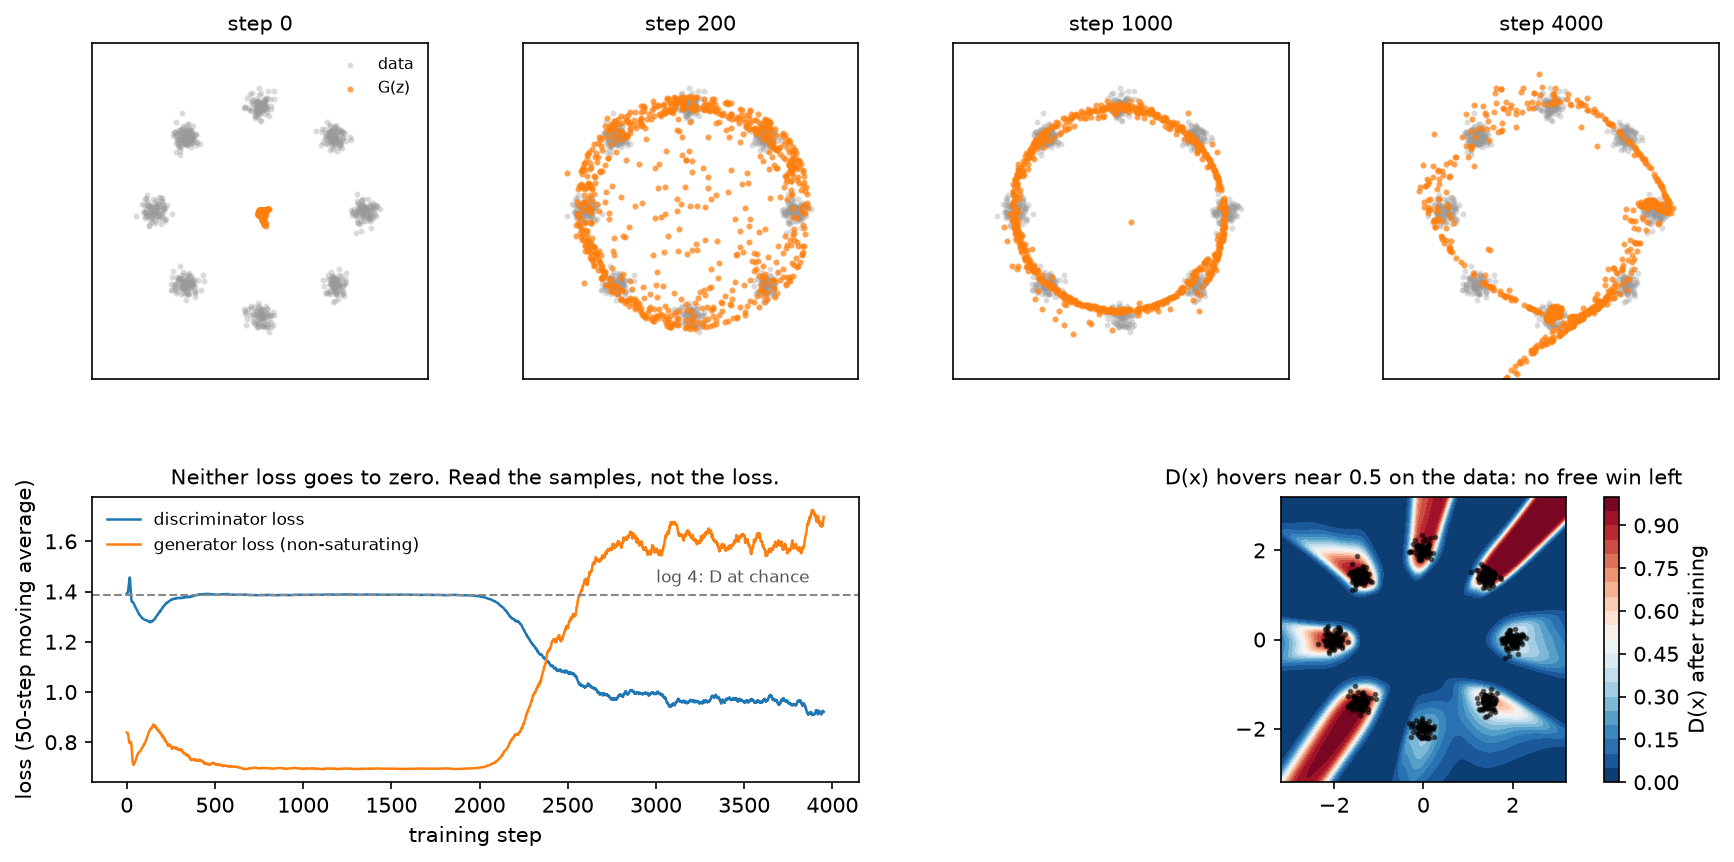
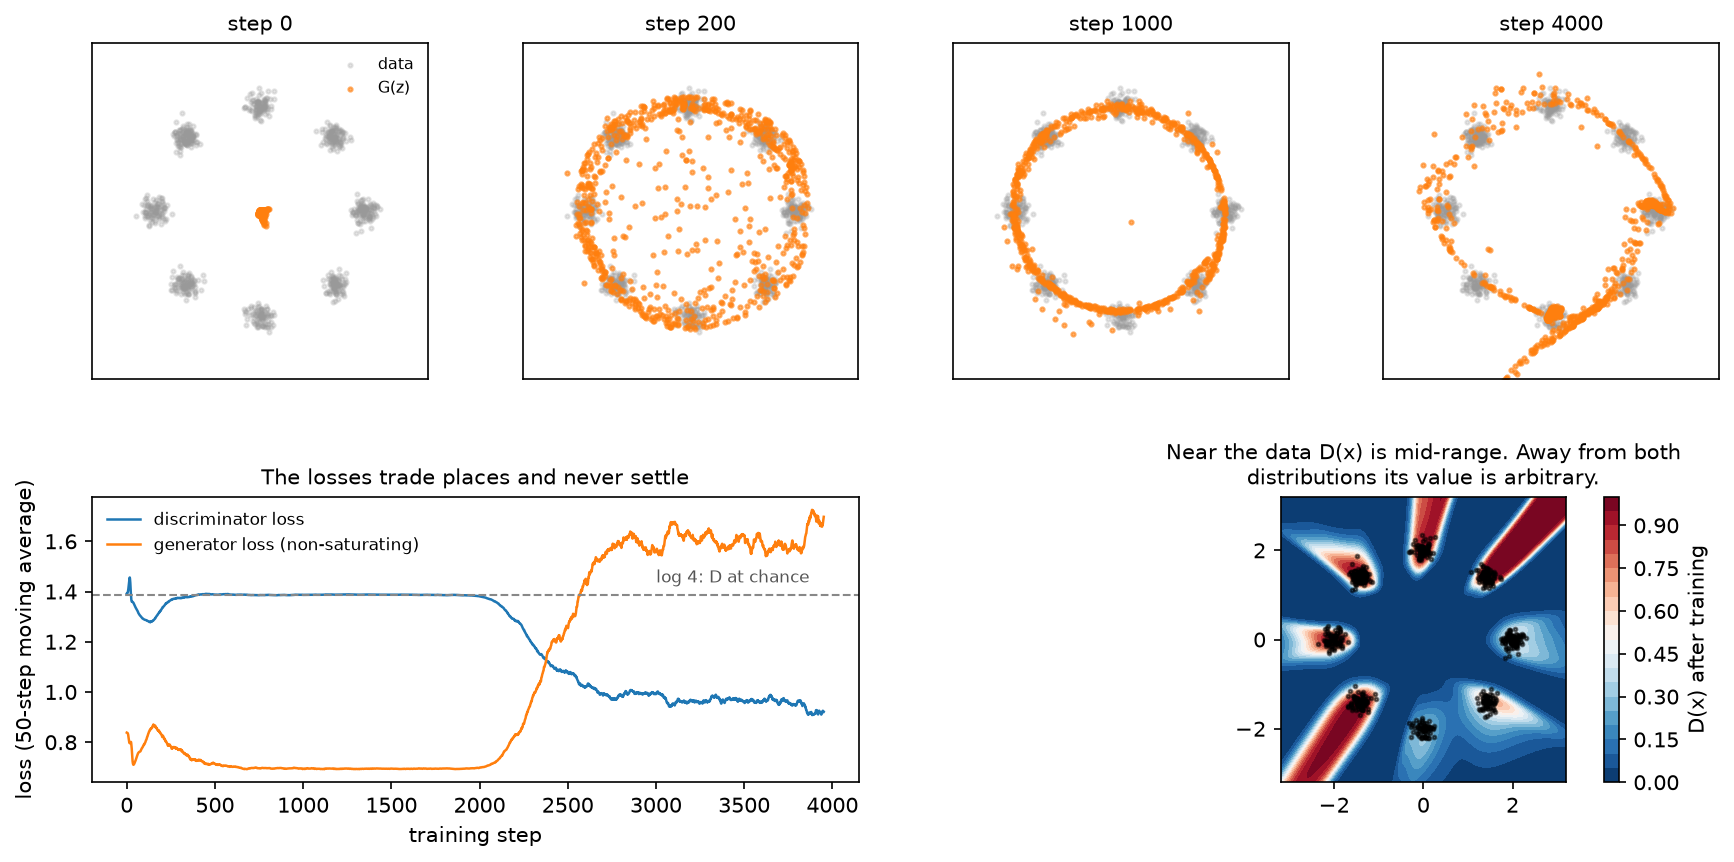
WIP: in-progress Part XI, Part XVI and citation work
Claude-Session: https://claude.ai/code/session_015H27xcFqfnuEV6DfXzrQek

Changed region(s): [[0.654, 0.5128, 0.9654, 0.5731], [0.0934, 0.5429, 0.436, 0.5731]]

diff --git a/figures/part09_gan_toy.py b/figures/part09_gan_toy.py
@@ -60,7 +60,7 @@ def main() -> None:
     ax.axhline(np.log(4), color="#888888", linestyle="--", linewidth=1.0)
     ax.text(len(d_hist) * 0.75, np.log(4) + 0.05, "log 4: D at chance", fontsize=8, color="#555555")
     ax.set_xlabel("training step"); ax.set_ylabel("loss (50-step moving average)")
-    ax.set_title("Neither loss goes to zero. Read the samples, not the loss.", fontsize=10)
+    ax.set_title("The losses trade places and never settle", fontsize=10)
     ax.legend(fontsize=8, frameon=False)
 
     ax = fig.add_subplot(gs[1, 2:])
@@ -72,7 +72,7 @@ def main() -> None:
     im = ax.contourf(gx, gy, d_prob, levels=20, cmap="RdBu_r", vmin=0, vmax=1)
     ax.scatter(x[:600, 0], x[:600, 1], s=3, alpha=0.5, color="black")
     fig.colorbar(im, ax=ax, label="D(x) after training")
-    ax.set_title("D(x) hovers near 0.5 on the data: no free win left", fontsize=10)
+    ax.set_title("Near the data D(x) is mid-range. Away from both\ndistributions its value is arbitrary.", fontsize=10)
     ax.set_aspect("equal")
 
     OUT.parent.mkdir(parents=True, exist_ok=True)

diff --git a/citations-todo/part14-15-systems-safety.md b/citations-todo/part14-15-systems-safety.md
@@ -1,0 +1,46 @@
+# Unverified citations: Parts XIV (systems) and XV (interpretability and safety)
+
+Both parts were already in good shape when the 2026-09-17 citations pass reached
+them. Every non-arXiv source the brief named was already linked in the chapters:
+the OPT-175B chronicles in `facebookresearch/metaseq`, the Transformer Circuits
+posts (A Mathematical Framework, Toy Models of Superposition, Towards
+Monosemanticity, Scaling Monosemanticity, In-context Learning and Induction Heads),
+nostalgebraist's logit-lens post on LessWrong, Simon Willison's prompt-injection
+series and lethal-trifecta post, Google SAIF, Meta's Purple Llama, NVIDIA's
+TensorRT-LLM documentation, the vLLM and Orca posts, Daly's checkpoint-interval
+paper, and ISO 26262 and ISO 21448.
+
+What that pass changed:
+
+* Replaced the H100 and A100 datasheet URLs in all four Part XIV chapters with the
+  two URLs confirmed in search results
+  (`resources.nvidia.com/en-us-gpu-resources/h100-datasheet-24306` and
+  `.../a100-80gb-datasheet-update-a4-nvidia-1485612-r12-web.pdf`). The URLs that
+  were there before did not appear in any search result.
+* Added the Purple Llama repository and Llama Guard model cards to the Llama Guard
+  reference in `02-safety-failure-modes.md`, which previously carried only the arXiv
+  link in the References section.
+* Gave the A100 bandwidth to datasheet precision in the roofline TL;DR
+  (2.04 TB/s, 2,039 GB/s on the datasheet), keeping 2.0 as the figure the worked
+  arithmetic uses.
+
+## Hardware numbers checked against the vendor datasheets
+
+| Claim in the book | Datasheet | Verdict |
+|---|---|---|
+| H100 SXM 989 TFLOP/s dense BF16 | 1,979 TFLOPS BF16 tensor core with 2:4 sparsity, so 989.5 dense | correct |
+| H100 SXM 3.35 TB/s HBM3 | 3.35 TB/s | correct |
+| H100 ridge 295 FLOP/byte | 989 / 3.35 = 295.2 | correct |
+| A100 80 GB 312 TFLOP/s BF16 | 312 TFLOPS dense (624 with sparsity) | correct |
+| A100 80 GB about 2.0 TB/s | 2,039 GB/s (SXM) | correct to the stated rounding; the exact ratio is 153, and the book's 156 comes from taking bandwidth as 2.0 |
+| NVLink about 450 GB/s per direction | NVLink 900 GB/s aggregate | correct |
+| PCIe 5.0 x16 about 64 GB/s per direction | PCIe Gen5 128 GB/s aggregate | correct |
+| InfiniBand NDR 50 GB/s per port | 400 Gb/s per port | correct |
+
+Nothing in the roofline worked examples had to be recomputed.
+
+## Remaining
+
+- [ ] docs/part14-systems/01-distributed-training.md | Bandwidth optimal all-reduce algorithms for clusters of workstations | Patarasuk & Yuan, JPDC 2009 | cited inside a parenthetical; publisher page not checked
+- [ ] docs/part15-interpretability-safety/01-interpretability.md | Several classic attribution papers (Simonyan et al. 2013, Sundararajan et al. ICML 2017, Selvaraju et al. Grad-CAM, Zhou et al. CVPR 2016, Hewitt & Liang EMNLP 2019, Meng et al. NeurIPS 2022) | all carry arXiv links already; conference-proceedings URLs (ACL Anthology, CVF) were not added
+- [ ] docs/part15-interpretability-safety/02-safety-failure-modes.md | The attack and privacy papers (BadNets, Spectral Signatures, Eykholt et al., Yeom et al., Shokri et al., Carlini et al., Lee et al., Tramer et al., Greshake et al., Zou et al.) | all carry arXiv links already; USENIX and IEEE S&P proceedings URLs were not added

diff --git a/docs/part09-generative/02-gans.md b/docs/part09-generative/02-gans.md
@@ -40,17 +40,20 @@ loss, the generator's loss, what $D(x)$ looks like across the plane, and where t
 ![GAN training on a 2-D mixture](../assets/figures/part09_gan_toy.png){ width="900" }
 
 The top row is the generator's samples at four points in training on eight Gaussians arranged on a
-circle. At step 0 they are a blob near the origin. By step 200 they have spread toward the ring.
-By step 4000 they cover the modes.
+circle. At step 0 they are a blob near the origin. By step 200 they have spread toward the ring, by
+step 1000 they sit on it, and by step 4000 they have concentrated on some modes and grown a stray
+filament through the middle. That non-monotonicity is the behaviour to expect: this run does not
+converge to a fixed point and settle, it keeps moving.
 
-The bottom-left panel is the thing to internalise. The discriminator loss does not go to zero, and
-it does not converge to a nice curve. It hovers, because every time $D$ gets better $G$ adapts, and
-vice versa. A discriminator loss falling to zero means $G$ has stopped fooling it, which is bad
-news, not progress. The dashed line at $\log 4$ is what the discriminator's loss would be if the
-two distributions matched exactly and $D$ could do no better than guess.
+The bottom-left panel is what that looks like in the losses. For 2000 steps the discriminator sits
+at $\log 4$, the value it would have if the two distributions matched and it could do no better
+than guess. Then it finds a signal, its loss drops, and the generator's loss climbs in response.
+Neither curve tells you whether the samples are good, which is why you look at samples.
 
-The bottom-right panel shows $D(x)$ over the plane at the end of training. Near the data it sits
-around $0.5$: the discriminator has no free win left there.
+The bottom-right panel shows $D(x)$ over the plane at the end of training. Where the data sits, $D$
+is mid-range, so there is no easy win left there. Away from both distributions its value is
+arbitrary: no gradient ever constrained it, which is the same observation that motivates the
+gradient penalty in section 2.5.
 
 ## 2. The math
 
